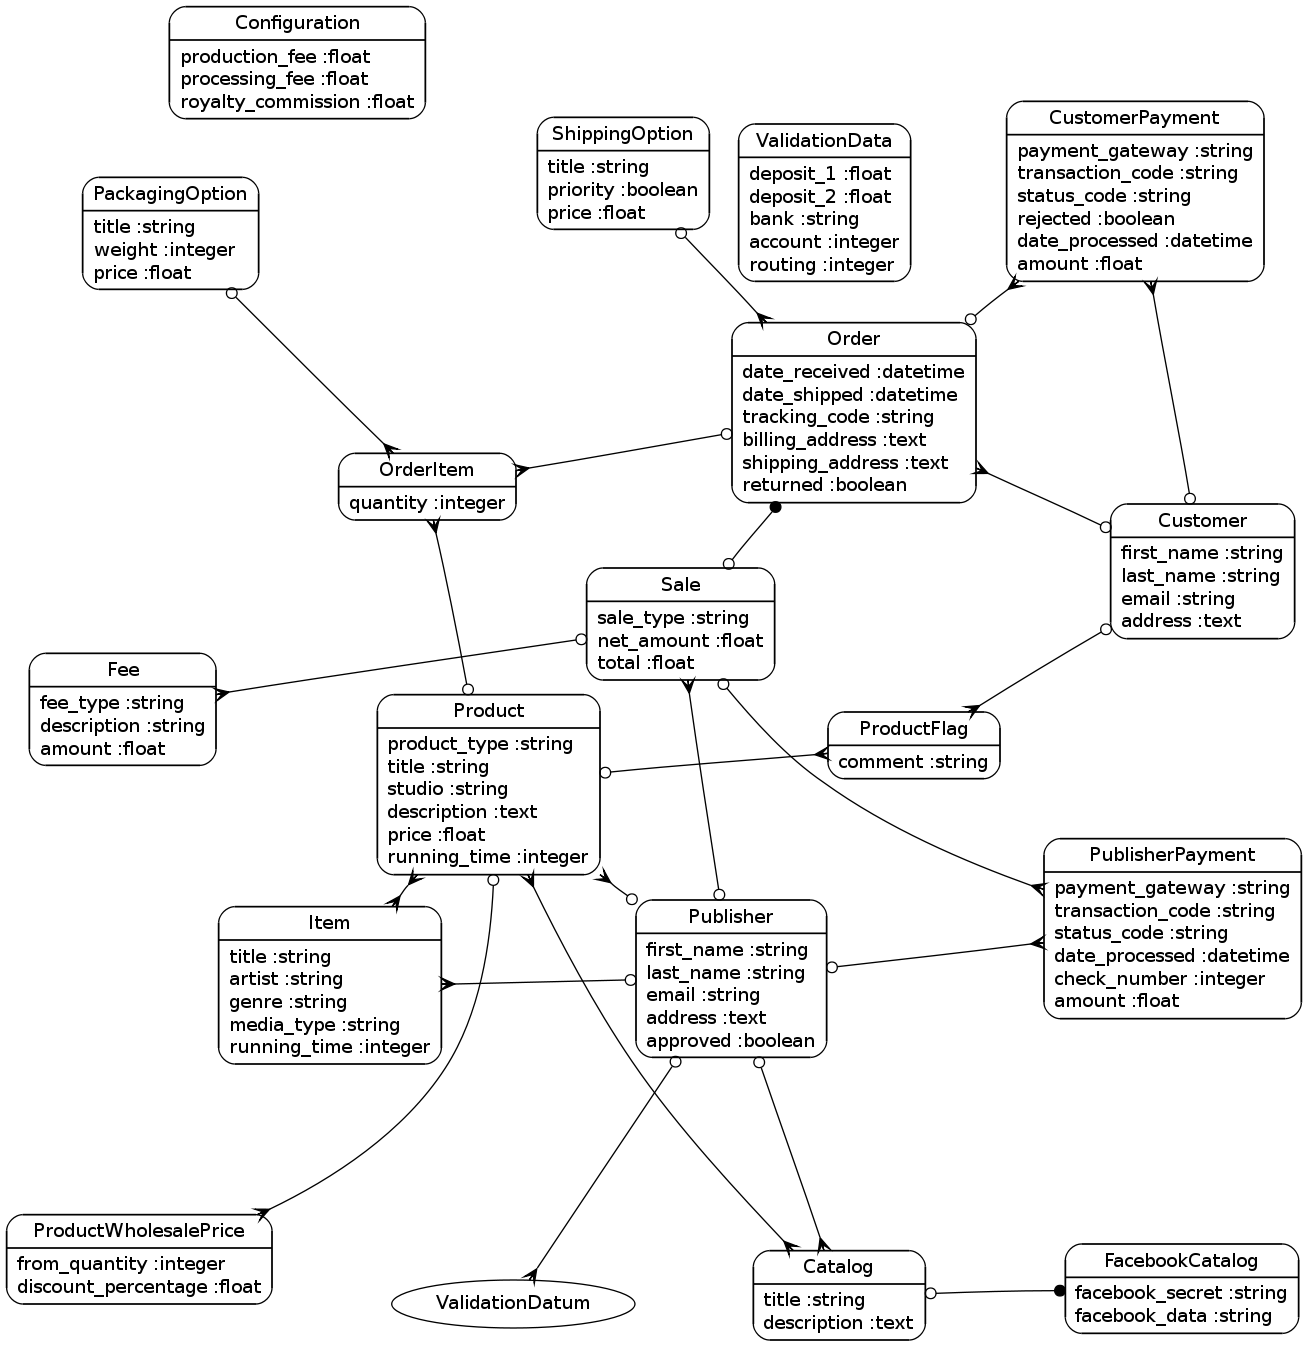
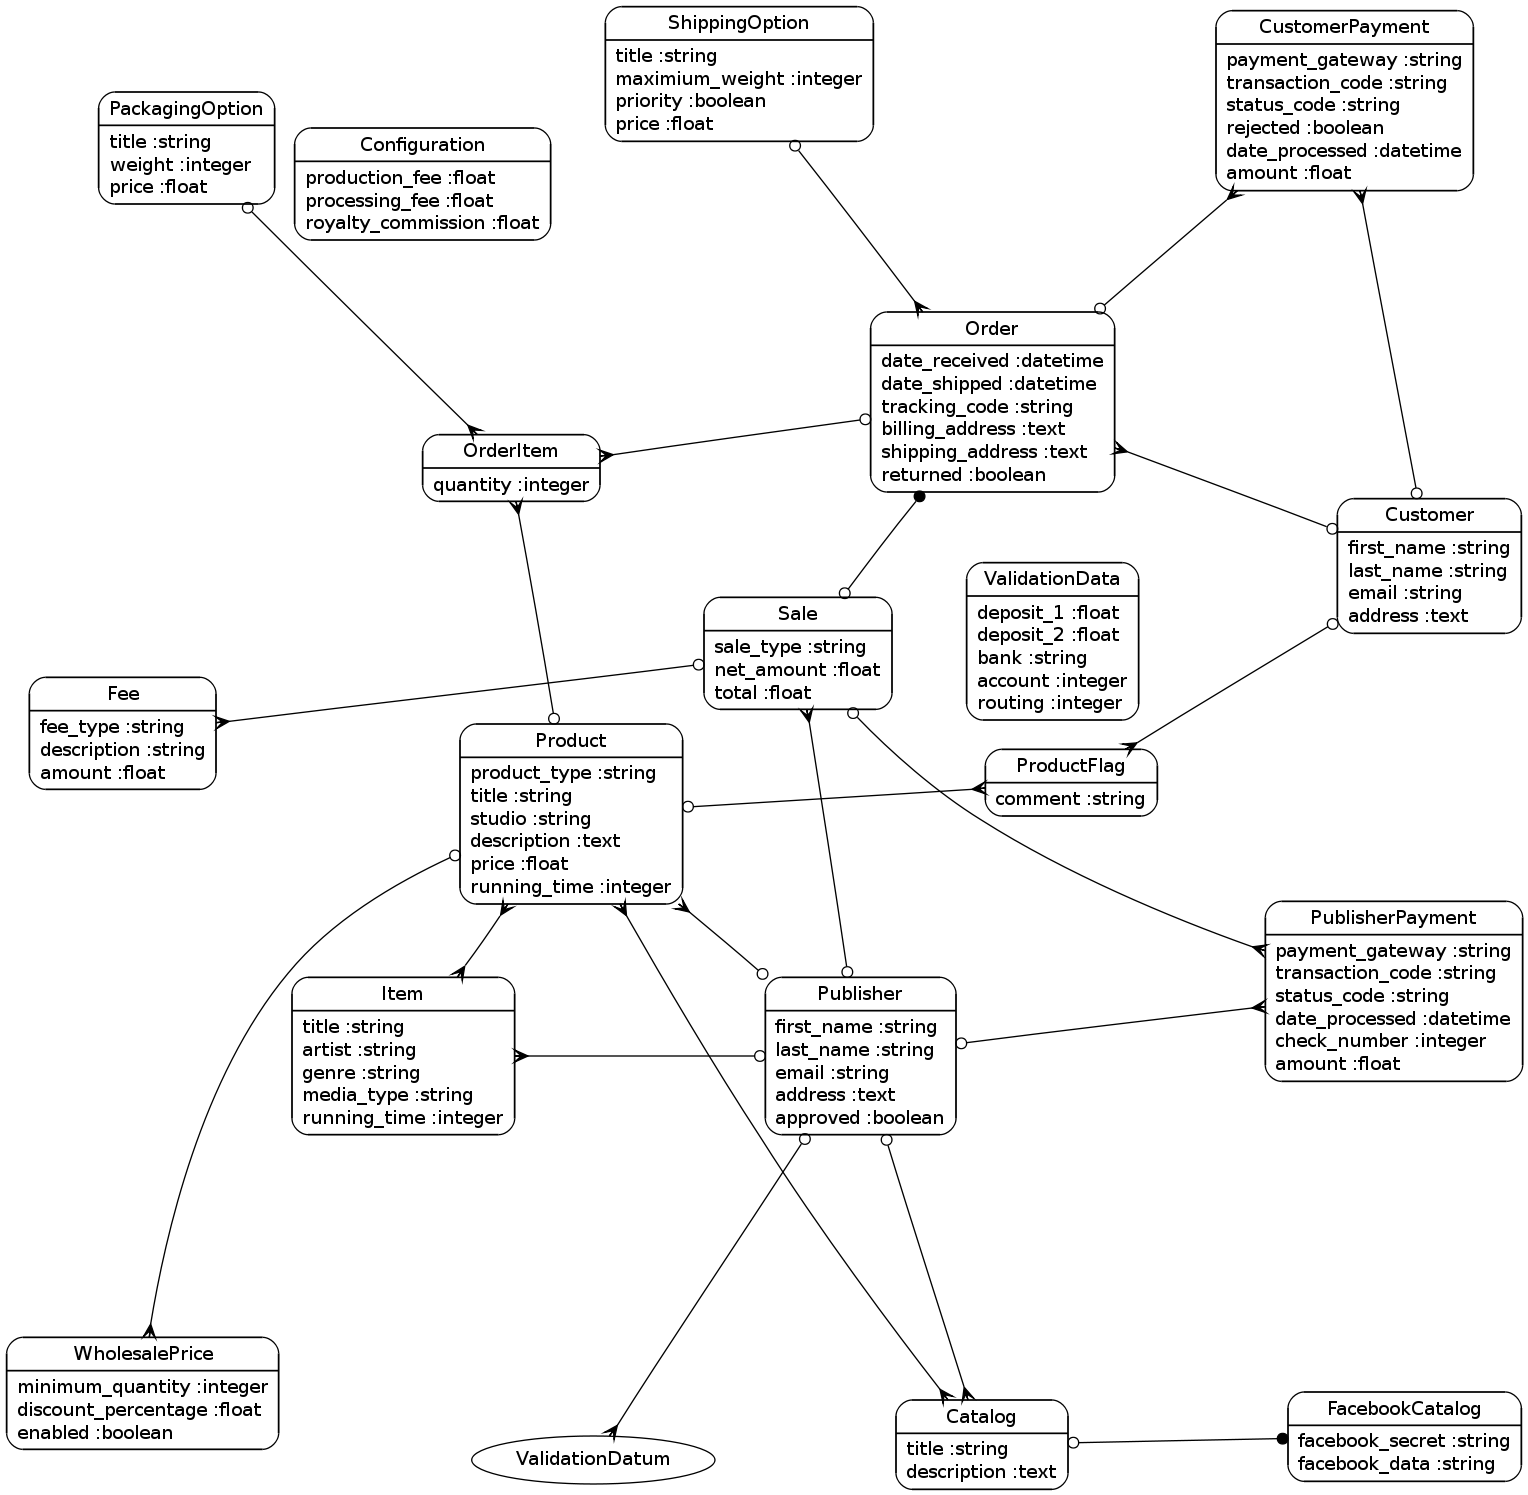
replaced ProductWholesalePrice model for WholesalePrice resource; updated models.png

diff --git a/db/migrate/20100930214856_create_wholesale_prices.rb b/db/migrate/20100930214856_create_wholesale_prices.rb
@@ -1,0 +1,16 @@
+class CreateWholesalePrices < ActiveRecord::Migration
+  def self.up
+    create_table :wholesale_prices do |t|
+      t.integer :minimum_quantity
+      t.float :discount_percentage
+      t.boolean :enabled
+      t.references :product
+
+      t.timestamps
+    end
+  end
+
+  def self.down
+    drop_table :wholesale_prices
+  end
+end

diff --git a/config/routes.rb b/config/routes.rb
@@ -20,6 +20,7 @@ ActionController::Routing::Routes.draw do |map|
     end
     publisher.resources :products do |product|
       product.resources :items
+      product.resources :wholesale_prices
     end
     publisher.resources :items
     publisher.resources :sales

diff --git a/db/migrate/20100929212445_create_shipping_options.rb b/db/migrate/20100929212445_create_shipping_options.rb
@@ -2,7 +2,7 @@ class CreateShippingOptions < ActiveRecord::Migration
   def self.up
     create_table :shipping_options do |t|
       t.string :title
-      t.inteter :top_weight
+      t.integer :maximium_weight
       t.boolean :priority
       t.float :price
 

diff --git a/app/models/product.rb b/app/models/product.rb
@@ -3,6 +3,6 @@ class Product < ActiveRecord::Base
   has_many :order_items
   has_and_belongs_to_many :catalogs
   has_and_belongs_to_many :items
-  has_many :product_wholesale_prices
+  has_many :wholesale_prices
   has_many :product_flags
 end

diff --git a/test/functional/wholesale_prices_controller_test.rb b/test/functional/wholesale_prices_controller_test.rb
@@ -1,0 +1,8 @@
+require 'test_helper'
+
+class WholesalePricesControllerTest < ActionController::TestCase
+  # Replace this with your real tests.
+  test "the truth" do
+    assert true
+  end
+end

diff --git a/test/unit/wholesale_price_test.rb b/test/unit/wholesale_price_test.rb
@@ -1,0 +1,8 @@
+require 'test_helper'
+
+class WholesalePriceTest < ActiveSupport::TestCase
+  # Replace this with your real tests.
+  test "the truth" do
+    assert true
+  end
+end

diff --git a/test/unit/helpers/wholesale_prices_helper_test.rb b/test/unit/helpers/wholesale_prices_helper_test.rb
@@ -1,0 +1,4 @@
+require 'test_helper'
+
+class WholesalePricesHelperTest < ActionView::TestCase
+end

diff --git a/app/models/wholesale_price.rb b/app/models/wholesale_price.rb
@@ -1,0 +1,3 @@
+class WholesalePrice < ActiveRecord::Base
+  belongs_to :product
+end

diff --git a/app/controllers/wholesale_prices_controller.rb b/app/controllers/wholesale_prices_controller.rb
@@ -1,0 +1,2 @@
+class WholesalePricesController < ApplicationController
+end

diff --git a/app/helpers/wholesale_prices_helper.rb b/app/helpers/wholesale_prices_helper.rb
@@ -1,0 +1,2 @@
+module WholesalePricesHelper
+end
